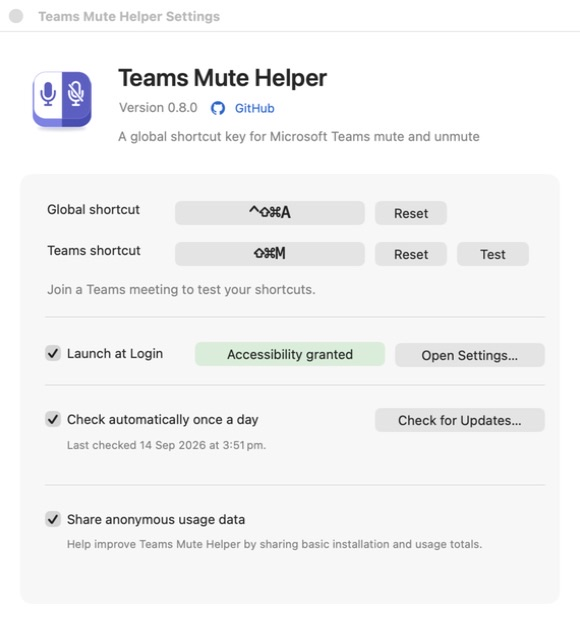
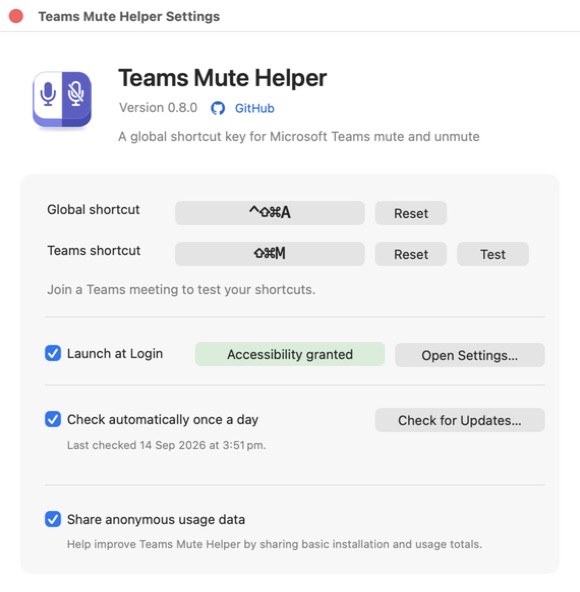
Tighten settings footer spacing

diff --git a/TeamsMuteHelper.m b/TeamsMuteHelper.m
@@ -1579,7 +1579,7 @@ static NSButton *ShortcutButton(id target, SEL action, NSRect frame) {
 }
 
 - (void)buildSettingsWindow {
-    NSRect frame = NSMakeRect(0, 0, 580, 590);
+    NSRect frame = NSMakeRect(0, 0, 580, 560);
     NSPanel *settingsPanel = [[NSPanel alloc]
         initWithContentRect:frame
                   styleMask:(NSWindowStyleMaskTitled |
@@ -1597,24 +1597,24 @@ static NSButton *ShortcutButton(id target, SEL action, NSRect frame) {
     [_settingsWindow standardWindowButton:NSWindowZoomButton].hidden = YES;
 
     NSView *content = _settingsWindow.contentView;
-    NSImageView *icon = [[NSImageView alloc] initWithFrame:NSMakeRect(26, 486, 72, 72)];
+    NSImageView *icon = [[NSImageView alloc] initWithFrame:NSMakeRect(26, 456, 72, 72)];
     icon.image = NSApp.applicationIconImage;
     icon.imageScaling = NSImageScaleProportionallyUpOrDown;
     [content addSubview:icon];
 
-    NSTextField *title = SettingsLabel(@"Teams Mute Helper", NSMakeRect(116, 527, 430, 32));
+    NSTextField *title = SettingsLabel(@"Teams Mute Helper", NSMakeRect(116, 497, 430, 32));
     title.font = [NSFont systemFontOfSize:24 weight:NSFontWeightSemibold];
     [content addSubview:title];
 
     NSTextField *version = SettingsLabel([NSString stringWithFormat:@"Version %@", CurrentVersion()],
-                                         NSMakeRect(117, 501, 95, 22));
+                                         NSMakeRect(117, 471, 95, 22));
     version.textColor = NSColor.secondaryLabelColor;
     [content addSubview:version];
 
     NSButton *repositoryLink = [NSButton buttonWithTitle:@"GitHub"
                                                    target:self
                                                    action:@selector(openRepository:)];
-    repositoryLink.frame = NSMakeRect(211, 502, 72, 24);
+    repositoryLink.frame = NSMakeRect(211, 472, 72, 24);
     repositoryLink.bordered = NO;
     repositoryLink.font = [NSFont systemFontOfSize:12];
     repositoryLink.contentTintColor = NSColor.linkColor;
@@ -1632,55 +1632,55 @@ static NSButton *ShortcutButton(id target, SEL action, NSRect frame) {
     [content addSubview:repositoryLink];
 
     NSTextField *summary = SettingsLabel(@"A global shortcut key for Microsoft Teams mute and unmute",
-                                         NSMakeRect(116, 472, 430, 22));
+                                         NSMakeRect(116, 442, 430, 22));
     summary.textColor = NSColor.secondaryLabelColor;
     summary.maximumNumberOfLines = 1;
     summary.usesSingleLineMode = YES;
     summary.lineBreakMode = NSLineBreakByClipping;
     [content addSubview:summary];
 
-    NSBox *settings = [[NSBox alloc] initWithFrame:NSMakeRect(20, 18, 540, 430)];
+    NSBox *settings = [[NSBox alloc] initWithFrame:NSMakeRect(20, 18, 540, 400)];
     settings.titlePosition = NSNoTitle;
     [content addSubview:settings];
 
-    [settings addSubview:SettingsLabel(@"Global shortcut", NSMakeRect(20, 374, 120, 24))];
+    [settings addSubview:SettingsLabel(@"Global shortcut", NSMakeRect(20, 344, 120, 24))];
     _globalShortcutField = ShortcutButton(self,
                                           @selector(beginGlobalShortcutRecording:),
-                                          NSMakeRect(150, 370, 190, 32));
+                                          NSMakeRect(150, 340, 190, 32));
     [settings addSubview:_globalShortcutField];
     _globalResetButton = SettingsButton(@"Reset", self,
                                          @selector(restoreDefaultGlobalShortcut:),
-                                         NSMakeRect(350, 370, 72, 32));
+                                         NSMakeRect(350, 340, 72, 32));
     [settings addSubview:_globalResetButton];
 
-    [settings addSubview:SettingsLabel(@"Teams shortcut", NSMakeRect(20, 333, 120, 24))];
+    [settings addSubview:SettingsLabel(@"Teams shortcut", NSMakeRect(20, 303, 120, 24))];
     _teamsShortcutField = ShortcutButton(self,
                                          @selector(beginTeamsShortcutRecording:),
-                                         NSMakeRect(150, 329, 190, 32));
+                                         NSMakeRect(150, 299, 190, 32));
     [settings addSubview:_teamsShortcutField];
     _teamsResetButton = SettingsButton(@"Reset", self,
                                         @selector(restoreDefaultTeamsShortcut:),
-                                        NSMakeRect(350, 329, 72, 32));
+                                        NSMakeRect(350, 299, 72, 32));
     [settings addSubview:_teamsResetButton];
     _testTeamsShortcutButton = SettingsButton(@"Test", self,
                                                @selector(testTeamsShortcut:),
-                                               NSMakeRect(432, 329, 72, 32));
+                                               NSMakeRect(432, 299, 72, 32));
     [settings addSubview:_testTeamsShortcutButton];
 
-    _recordingHint = SettingsLabel(@"", NSMakeRect(20, 298, 500, 20));
+    _recordingHint = SettingsLabel(@"", NSMakeRect(20, 268, 500, 20));
     _recordingHint.textColor = NSColor.secondaryLabelColor;
     [settings addSubview:_recordingHint];
 
-    NSBox *shortcutSeparator = [[NSBox alloc] initWithFrame:NSMakeRect(20, 281, 500, 1)];
+    NSBox *shortcutSeparator = [[NSBox alloc] initWithFrame:NSMakeRect(20, 251, 500, 1)];
     shortcutSeparator.boxType = NSBoxSeparator;
     [settings addSubview:shortcutSeparator];
 
     _launchAtLoginCheckbox = [NSButton checkboxWithTitle:@"Launch at Login"
                                                   target:self
                                                   action:@selector(toggleLaunchAtLogin:)];
-    _launchAtLoginCheckbox.frame = NSMakeRect(20, 234, 140, 24);
+    _launchAtLoginCheckbox.frame = NSMakeRect(20, 204, 140, 24);
     [settings addSubview:_launchAtLoginCheckbox];
-    _accessibilityStatusBadge = [[NSView alloc] initWithFrame:NSMakeRect(170, 233, 190, 24)];
+    _accessibilityStatusBadge = [[NSView alloc] initWithFrame:NSMakeRect(170, 203, 190, 24)];
     _accessibilityStatusBadge.wantsLayer = YES;
     _accessibilityStatusBadge.layer.cornerRadius = 6.0;
     [settings addSubview:_accessibilityStatusBadge];
@@ -1698,39 +1698,39 @@ static NSButton *ShortcutButton(id target, SEL action, NSRect frame) {
     ]];
     _accessibilitySettingsButton = SettingsButton(@"Open Settings…", self,
                                                    @selector(openAccessibilitySettings:),
-                                                   NSMakeRect(370, 228, 150, 32));
+                                                   NSMakeRect(370, 198, 150, 32));
     [settings addSubview:_accessibilitySettingsButton];
 
-    NSBox *startupSeparator = [[NSBox alloc] initWithFrame:NSMakeRect(20, 213, 500, 1)];
+    NSBox *startupSeparator = [[NSBox alloc] initWithFrame:NSMakeRect(20, 183, 500, 1)];
     startupSeparator.boxType = NSBoxSeparator;
     [settings addSubview:startupSeparator];
 
     _automaticUpdatesCheckbox = [NSButton checkboxWithTitle:@"Check automatically once a day"
                                                      target:self
                                                      action:@selector(automaticUpdateSettingChanged:)];
-    _automaticUpdatesCheckbox.frame = NSMakeRect(20, 168, 300, 24);
+    _automaticUpdatesCheckbox.frame = NSMakeRect(20, 138, 300, 24);
     [settings addSubview:_automaticUpdatesCheckbox];
     _checkUpdatesButton = SettingsButton(@"Check for Updates…", self,
                                           @selector(checkForUpdates:),
-                                          NSMakeRect(350, 163, 170, 32));
+                                          NSMakeRect(350, 133, 170, 32));
     [settings addSubview:_checkUpdatesButton];
-    _updateStatusLabel = SettingsLabel(@"", NSMakeRect(40, 141, 480, 20));
+    _updateStatusLabel = SettingsLabel(@"", NSMakeRect(40, 111, 480, 20));
     _updateStatusLabel.font = [NSFont systemFontOfSize:11];
     _updateStatusLabel.textColor = NSColor.secondaryLabelColor;
     [settings addSubview:_updateStatusLabel];
 
-    NSBox *updatesSeparator = [[NSBox alloc] initWithFrame:NSMakeRect(20, 113, 500, 1)];
+    NSBox *updatesSeparator = [[NSBox alloc] initWithFrame:NSMakeRect(20, 83, 500, 1)];
     updatesSeparator.boxType = NSBoxSeparator;
     [settings addSubview:updatesSeparator];
 
     _anonymousUsageCheckbox = [NSButton checkboxWithTitle:@"Share anonymous usage data"
                                                    target:self
                                                    action:@selector(anonymousUsageSettingChanged:)];
-    _anonymousUsageCheckbox.frame = NSMakeRect(20, 68, 300, 24);
+    _anonymousUsageCheckbox.frame = NSMakeRect(20, 38, 300, 24);
     [settings addSubview:_anonymousUsageCheckbox];
     NSTextField *privacyDetail = SettingsLabel(
         @"Help improve Teams Mute Helper by sharing basic installation and usage totals.",
-        NSMakeRect(40, 42, 480, 20));
+        NSMakeRect(40, 12, 480, 20));
     privacyDetail.font = [NSFont systemFontOfSize:11];
     privacyDetail.textColor = NSColor.secondaryLabelColor;
     privacyDetail.maximumNumberOfLines = 1;
